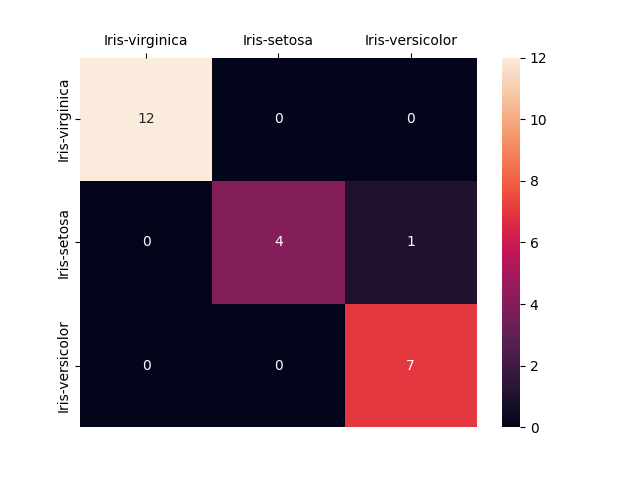
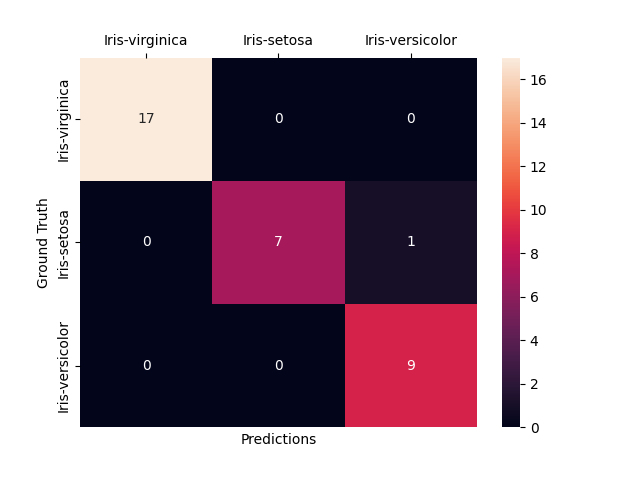
Updated axes label to clarify which axis is ground truth and prediction, respectively

diff --git a/keras_iris.py b/keras_iris.py
@@ -131,7 +131,7 @@ def data_etl(spark) -> DataFrame:
 def main(spark: SparkSession):
 
     # Prepare the data
-    train, val, test = data_etl(spark).randomSplit([0.75, 0.05, 0.2],
+    train, val, test = data_etl(spark).randomSplit([0.7, 0.05, 0.25],
                                                    seed=42)
     labels = [row.__getattr__("class")
               for row in train.select("class").distinct().collect()]
@@ -155,7 +155,7 @@ def main(spark: SparkSession):
         y=train[1],
         validation_data=val,
         batch_size=8,
-        epochs=200
+        epochs=250
     )
 
     # Test model performance
@@ -167,6 +167,8 @@ def main(spark: SparkSession):
     cmat = confusion_matrix(np.argmax(test[1],axis=1),
                             np.argmax(predictions, axis=1))
     ax = sns.heatmap(cmat, annot=True, xticklabels=labels, yticklabels=labels)
+    plt.ylabel("Ground Truth")
+    plt.xlabel("Predictions")
     ax.xaxis.tick_top()
     plt.savefig("confusion_matrix.png")
     plt.close()
